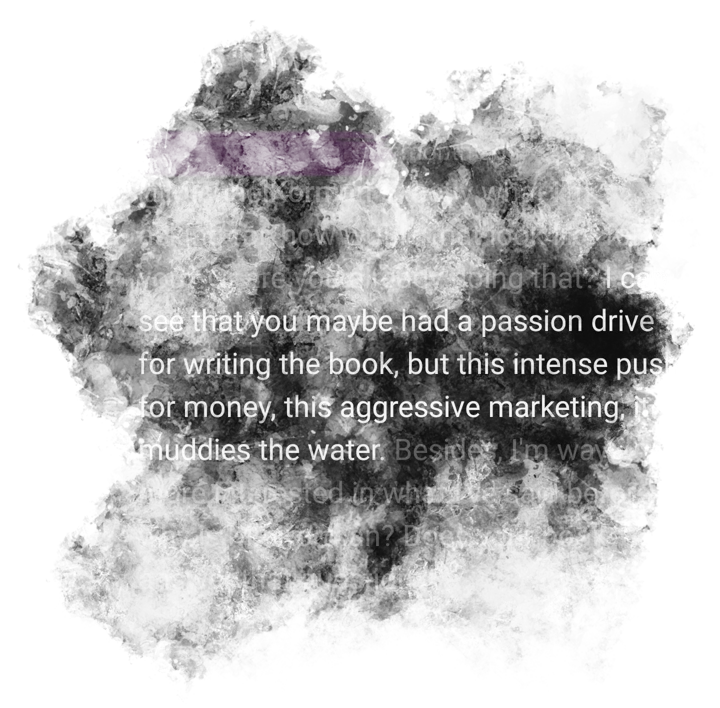
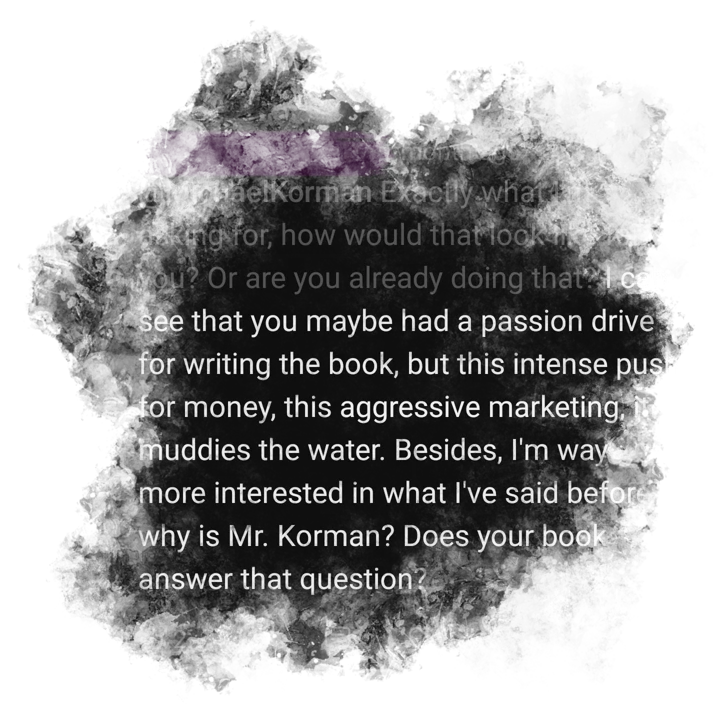
Give more context for "passion + aggressive" scene

diff --git a/door/index.html b/door/index.html
@@ -63,19 +63,26 @@
             <img src="assets/youre-in-the-book.webp" alt="Reader comment about vagueness." class="relic-img">
         </section> -->
 
-        <!-- Frame 3: Testimonial "vague" -->
+        <!-- Frame 3: "Passion + aggressive" scene -->
         <section class="frame comment-cluster">
             <div class="sr-only">
-                <p>YouTube comment 1: "I get that you cant just tell me the whole book but you can sell it to us im pretty sure its no fiction but honestly idk thats how confusing everything youve said about it is"</p>
-                <p>YouTube comment 2: "Sorry just wanted to ask I can’t tell if this is a bit or your a cult sorry"</p>
-                <p>YouTube comment 3: "Why would I buy it if I don't know what I'm buying?"</p>
             </div>
 
-            <img src="assets/aggressive-1.webp" alt="Comment: honestly idk thats how confusing it is" class="relic-img comment-left">
-            <img src="assets/aggressive-2.webp" alt="Comment: can't tell if this is a bit or your a cult" class="relic-img comment-right">
-            <img src="assets/aggressive-3.webp" alt="Comment: Why would I buy it?" class="relic-img comment-left">
-            <img src="assets/aggressive-5.webp" alt="Comment: Why would I buy it?" class="relic-img comment-right">
-            <img src="assets/aggressive-4.webp" alt="Comment: Why would I buy it?" class="relic-img comment-center">
+            <img src="assets/passion-0.webp" alt="" class="relic-img comment-left">
+            <img src="assets/passion-1.webp" alt="" class="relic-img comment-right">
+            <img src="assets/passion-2.webp" alt="" class="relic-img comment-left">
+            <img src="assets/passion-3.webp" alt="" class="relic-img comment-right">
+            <img src="assets/passion-4.webp" alt="" class="relic-img comment-left">
+            <img src="assets/passion-5.webp" alt="" class="relic-img comment-right">
+            <img src="assets/passion-6.webp" alt="" class="relic-img comment-left">
+
+            <img src="assets/aggressive-1.webp" alt="" class="relic-img comment-right">
+            <img src="assets/aggressive-2.webp" alt="" class="relic-img comment-left">
+            <img src="assets/aggressive-4.webp" alt="" class="relic-img comment-center">
+            <img src="assets/aggressive-3.webp" alt="" class="relic-img comment-right">
+            <img src="assets/aggressive-5.webp" alt="" class="relic-img comment-left">
+            <img src="assets/passion-7.webp" alt="" class="relic-img comment-right">
+            <img src="assets/passion-8.webp" alt="" class="relic-img comment-left">
         </section>
 
 
